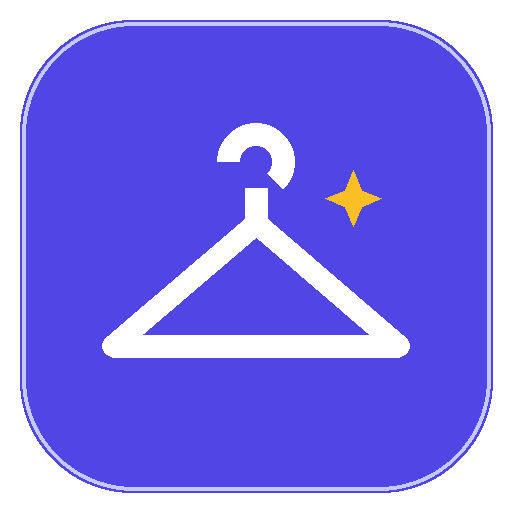
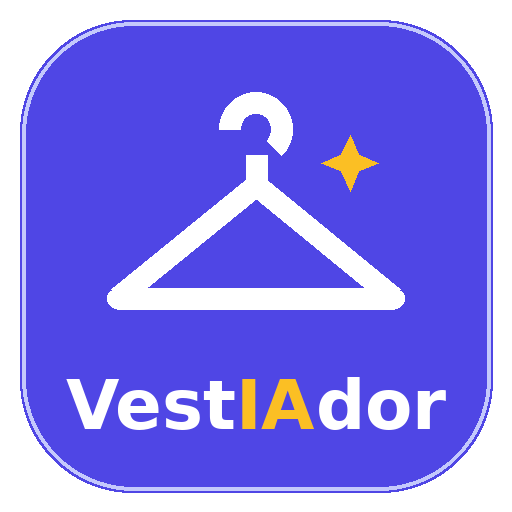
Add files via upload

Changed region(s): [[0.125, 0.1562, 0.875, 0.8438], [0.625, 0.25, 0.75, 0.4375]]

diff --git a/index.html b/index.html
@@ -6,7 +6,7 @@
   <meta name="theme-color" content="#4f46e5" />
   <meta name="mobile-web-app-capable" content="yes" />
   <meta name="apple-mobile-web-app-capable" content="yes" />
-  <title>VestIA — Armario Inteligente</title>
+  <title>VestIAdor — Armario Inteligente</title>
   <link rel="manifest" href="./manifest.json" />
   <link rel="icon" type="image/svg+xml" href="./favicon.svg" />
   <link rel="apple-touch-icon" href="./icon-192.png" />
@@ -778,12 +778,12 @@
 <body>
 
 <header>
-  <div class="brand" id="brandHelpTrigger" title="Pulsa para ver descripción e instrucciones de VestIA">
+  <div class="brand" id="brandHelpTrigger" title="Pulsa para ver descripción e instrucciones de VestIAdor">
     <div class="brand-badge">
-      <img src="./favicon.svg" alt="VestIA" />
+      <img src="./favicon.svg" alt="VestIAdor" />
     </div>
     <div class="brand-text-wrap">
-      <span class="brand-title">VestIA</span>
+      <span class="brand-title">Vest<span style="color:#f59e0b;">IA</span>dor</span>
       <span class="brand-sub">Armario Inteligente</span>
     </div>
   </div>
@@ -1035,8 +1035,8 @@
   <div class="modal-sheet">
     <div class="card-title">
       <span style="display:flex;align-items:center;gap:8px;">
-        <img src="./favicon.svg" alt="VestIA" style="width:26px;height:26px;border-radius:6px;" />
-        VestIA — Armario Inteligente
+        <img src="./favicon.svg" alt="VestIAdor" style="width:26px;height:26px;border-radius:6px;" />
+        VestIAdor — Armario Inteligente
       </span>
       <button class="btn btn-secondary btn-sm" onclick="closeModal('helpModal')">Cerrar</button>
     </div>
@@ -2904,7 +2904,7 @@ document.getElementById('exportJsonBtn').addEventListener('click', () => {
   }, null, 2)], { type: 'application/json' });
   const a = document.createElement('a');
   a.href = URL.createObjectURL(blob);
-  a.download = `vestia-backup-${new Date().toISOString().slice(0,10)}.json`;
+  a.download = `vestiador-backup-${new Date().toISOString().slice(0,10)}.json`;
   a.click();
 });
 

diff --git a/sw.js b/sw.js
@@ -1,4 +1,4 @@
-const CACHE_NAME = 'vestia-pwa-v11';
+const CACHE_NAME = 'vestiador-pwa-v12';
 const ASSETS_TO_CACHE = [
   './',
   './index.html',
